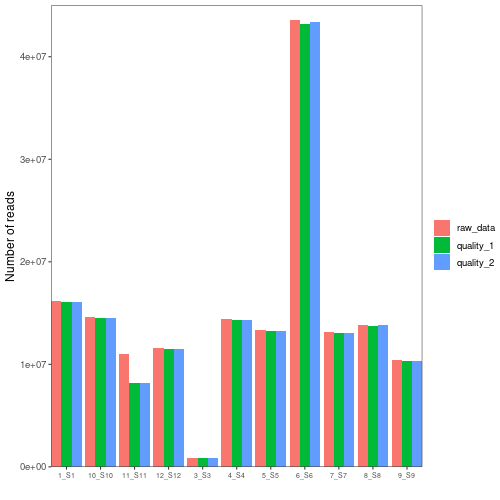
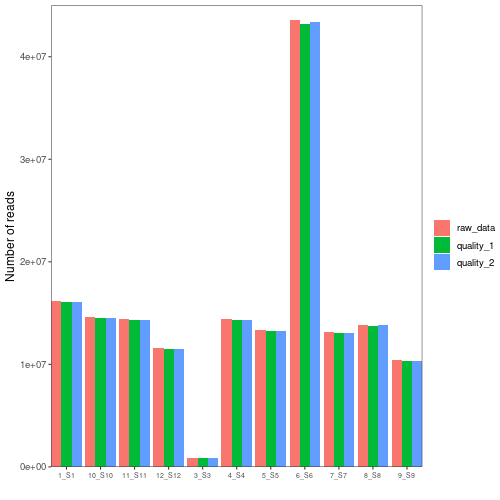
Update of readcount_quality.txt

Changed region(s): [[0.24, 0.63, 0.3, 0.78]]

diff --git a/01_fastqc/reporte_calidad_21082020.md b/01_fastqc/reporte_calidad_21082020.md
@@ -12,7 +12,7 @@ La prueba 2 con *Trimmomatic* incluyó los siguientes parámetros:
 1. Remoción de adaptadores y N's
 2. Calidad promedio de todo la lectura Q > 20
 
-No se ve que existan diferencias entre los dos tratamientos con *Trimmomatic*, solamente hay una muestra que está rara porque hay un archivo incompleto en la carpeta (la 11_S11).
+No se ve que existan diferencias entre los dos tratamientos con *Trimmomatic*.
 
 <img src="03_readcount/barplot_qual_readcount.png" alt="barplot_qual_readcount" style="zoom:100%;" />
 
